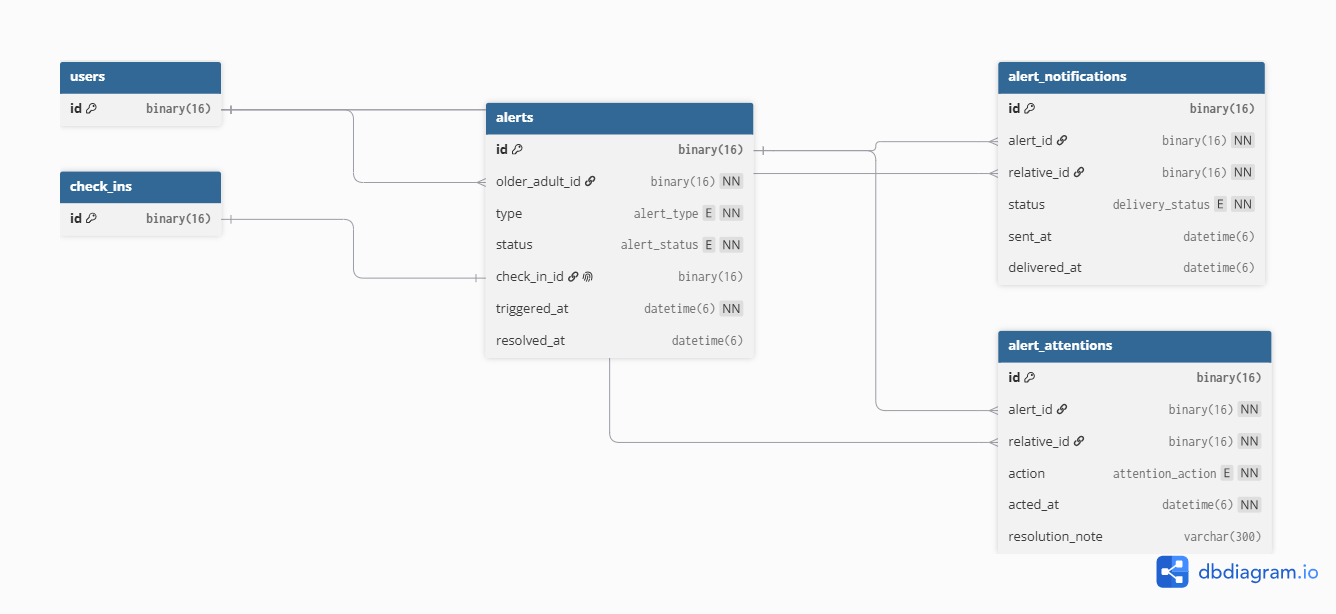
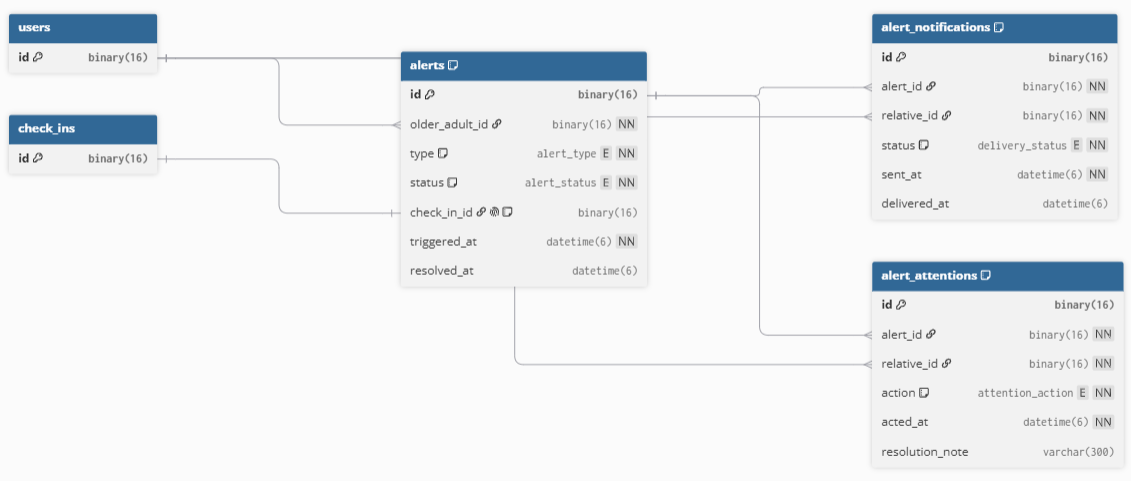
docs(alerts-safety-db-alignment):align delivery status in the database design with the implemented code

diff --git a/README.md b/README.md
@@ -6227,7 +6227,7 @@ El diagrama de base de datos (Imagen 55) presenta las tablas que permiten la per
 | triggered_at | datetime(6) | NOT NULL | Instante en que se generó la alerta, en UTC. |
 | resolved_at | datetime(6) | - | Instante de la resolución. Nulo mientras la alerta no se haya resuelto. |
 
-Esta tabla almacena las alertas de emergencia y de inactividad en una misma estructura, ya que ambas comparten el ciclo de reconocimiento y resolución por parte de los familiares. El índice único sobre `check_in_id` garantiza que un check-in genere a lo sumo una alerta. Incluye un índice sobre `(older_adult_id, triggered_at)` para consultar el historial de alertas de un adulto mayor ordenado por fecha, y otro sobre `(type, status)` para filtrar las alertas por tipo y estado.
+Esta tabla almacena las alertas de emergencia y de inactividad en una misma estructura, ya que ambas comparten el ciclo de reconocimiento y resolución por parte de los familiares. El índice único sobre `check_in_id` garantiza que un check-in genere a lo sumo una alerta. Incluye un índice sobre `(older_adult_id, triggered_at)` para consultar el historial de alertas de un adulto mayor ordenado por fecha.
 
 **Tabla alert_notifications**
 
@@ -6236,8 +6236,8 @@ Esta tabla almacena las alertas de emergencia y de inactividad en una misma estr
 | id | binary(16) | PK | Identificador único de la notificación. |
 | alert_id | binary(16) | NOT NULL, FK → alerts.id | Alerta de emergencia a la que pertenece la notificación. |
 | relative_id | binary(16) | NOT NULL, FK → users.id | Familiar al que se dirige la notificación. |
-| status | delivery_status | NOT NULL, DEFAULT 'PENDING' | Estado de la notificación: PENDING, SENT, DELIVERED o FAILED. |
-| sent_at | datetime(6) | - | Instante del registro de la notificación, en UTC. |
+| status | delivery_status | NOT NULL | Estado de la notificación: SENT o DELIVERED. |
+| sent_at | datetime(6) | NOT NULL | Instante del envío de la notificación, en UTC. |
 | delivered_at | datetime(6) | - | Instante en que la notificación quedó disponible para el familiar. Nulo mientras no se confirme. |
 
 Esta tabla registra el despacho de una emergencia a cada familiar con vínculo activo. Un índice único sobre `(alert_id, relative_id)` asegura que exista una sola notificación por familiar y alerta.
@@ -6261,7 +6261,7 @@ Esta tabla deja constancia de qué familiar reconoció una alerta y cuál la res
 |---|---|---|
 | alert_type | EMERGENCY, INACTIVITY | Tipo de alerta; distingue ambos aggregates en la tabla `alerts`. |
 | alert_status | RAISED, DISPATCHED, DISPATCH_FAILED, ACKNOWLEDGED, RESOLVED | Estado de la alerta a lo largo de su ciclo de vida. |
-| delivery_status | PENDING, SENT, DELIVERED, FAILED | Estado de entrega de una notificación de emergencia. |
+| delivery_status | SENT, DELIVERED | Estado de entrega de una notificación de emergencia. |
 | attention_action | ACKNOWLEDGED, RESOLVED | Acción de un familiar sobre una alerta. |
 
 <br>
